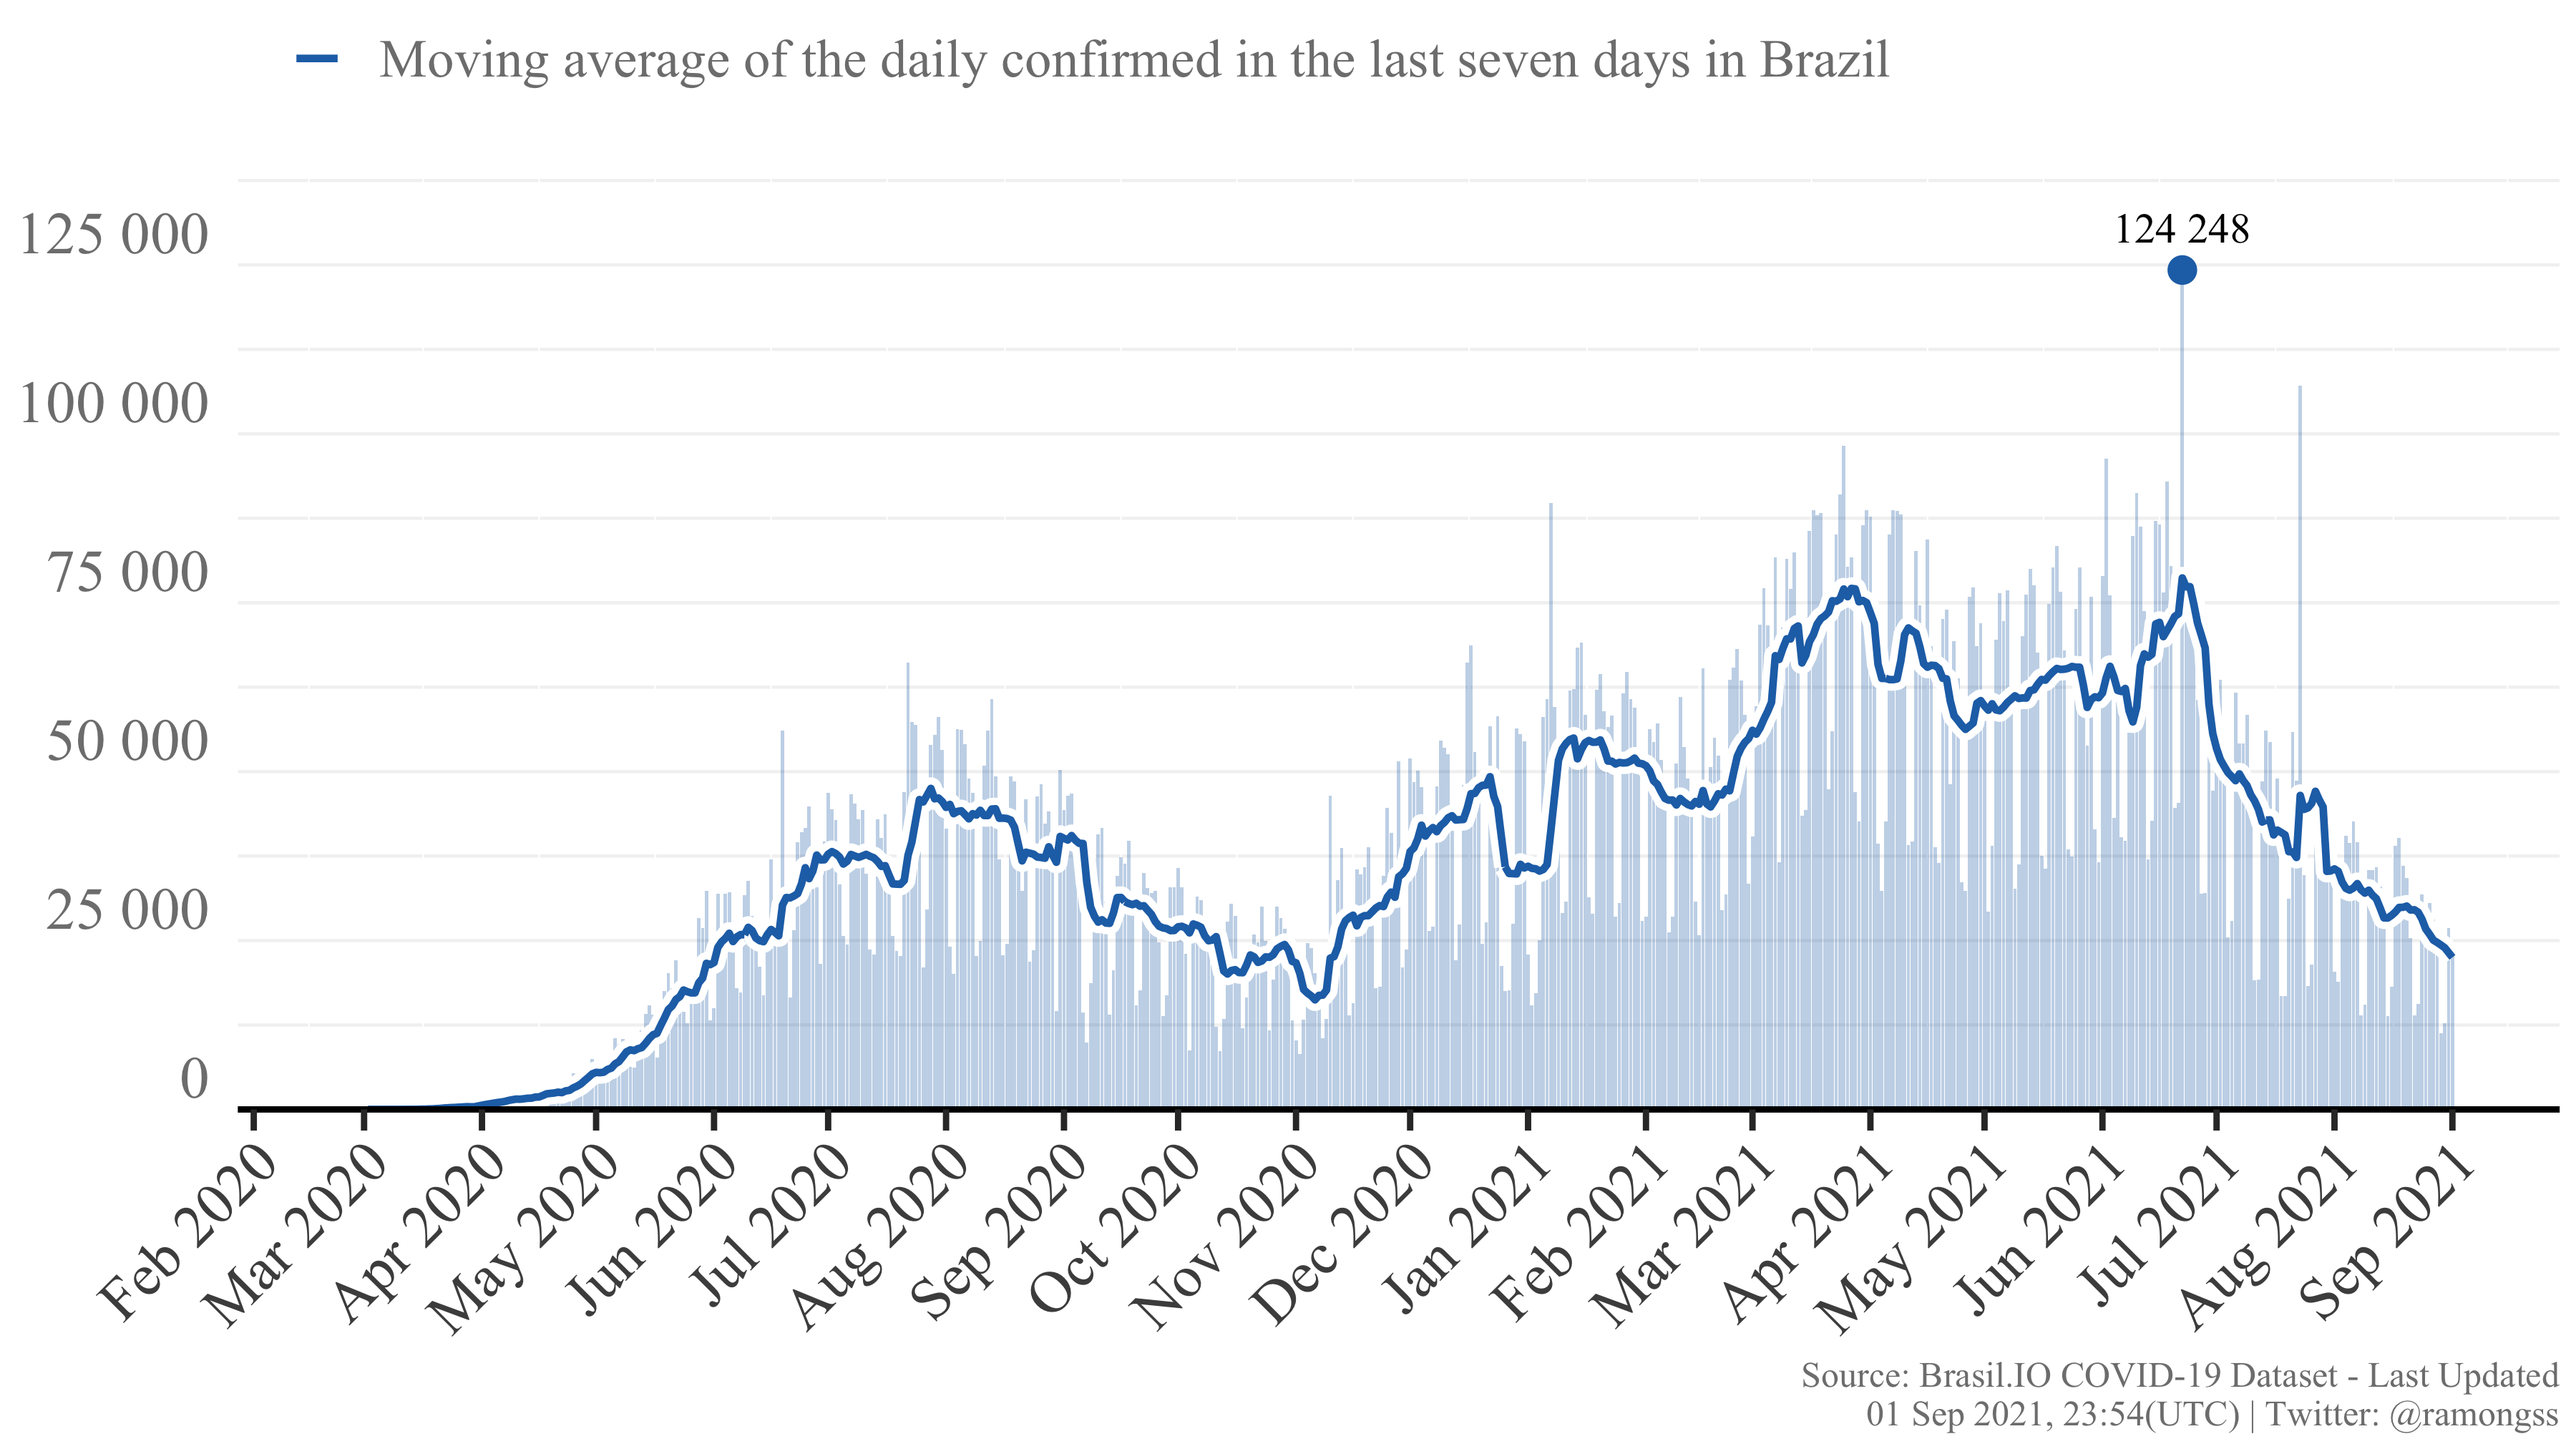
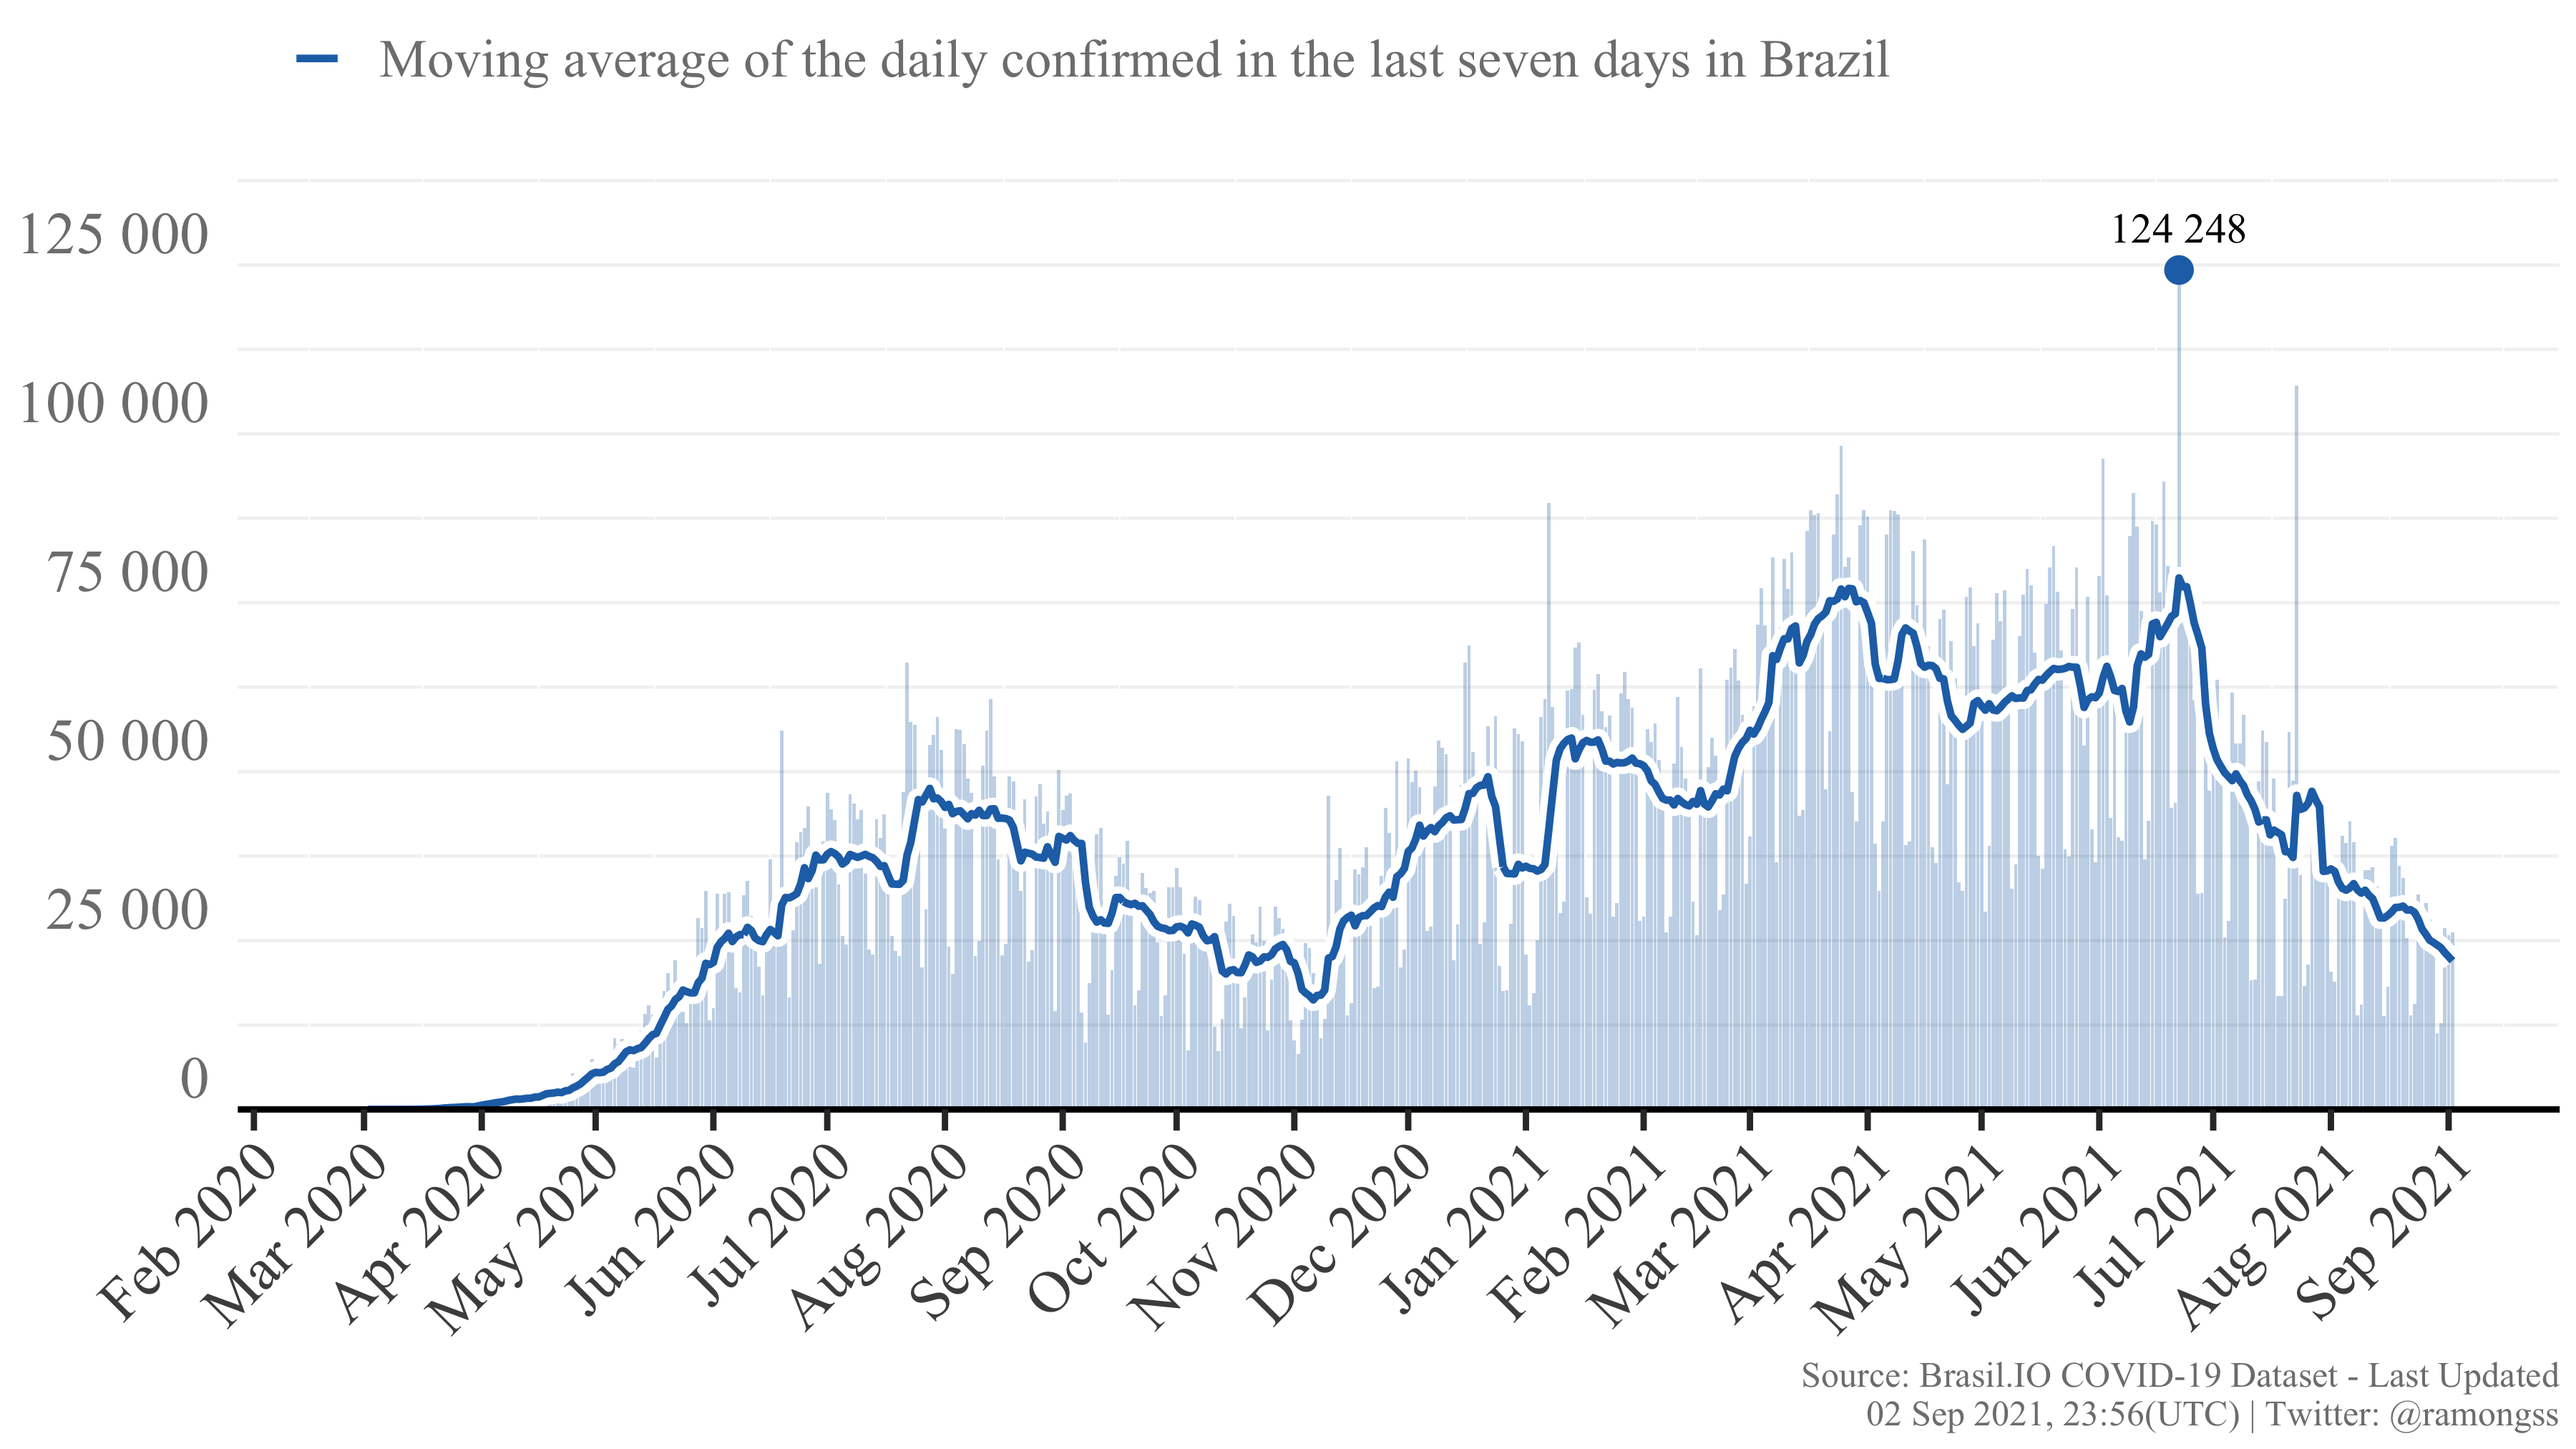
Re-build README.Rmd

diff --git a/README.md b/README.md
@@ -27,8 +27,8 @@ download_brasilio_table <- function(dataset = "covid19", table_name){
 
 ## COVID-19 Confirmed cases
 
-Currently, Brazil has a total of **20,810,158** confirmed cases at **01
-Sep, 2021**, with **24,962** new confirmed cases. The daily maximum
+Currently, Brazil has a total of **20,837,134** confirmed cases at **02
+Sep, 2021**, with **26,190** new confirmed cases. The daily maximum
 incidence was **124,248** confirmed cases at **22 Jun, 2021**. Here
 follows the Figure showing the confirmed case incidence as the bars, and
 the line as the moving average of the last 7 days.
@@ -37,8 +37,8 @@ the line as the moving average of the last 7 days.
 
 ## COVID-19 Deaths
 
-Currently, Brazil has a total of **581,445** deaths at **01 Sep, 2021**,
-with **682** new deaths. The daily maximum deaths incidence was
+Currently, Brazil has a total of **582,217** deaths at **02 Sep, 2021**,
+with **756** new deaths. The daily maximum deaths incidence was
 **4,148** deaths at **08 Apr, 2021**. Here follows the Figure showing
 the deaths incidence as the bars, and the line as the moving average of
 the last 7 days.
@@ -49,4 +49,4 @@ the last 7 days.
 
 This page is daily updated automatically using Github Actions.
 
-*Last update: 01 Sep 2021, 23:54 (UTC).*
+*Last update: 02 Sep 2021, 23:56 (UTC).*
